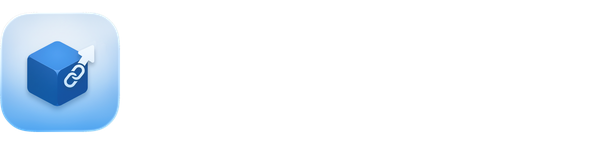
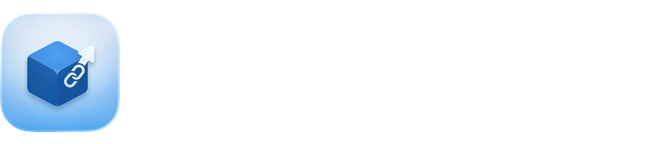
docs: separate GitBook wordmark from mobile menu

Changed region(s): [[0.031, 0.1111, 0.2173, 0.9167], [0.0621, 0.6667, 0.1242, 0.75], [0.031, 0.8889, 0.0621, 0.9167]]

diff --git a/User_docs/GITBOOK_MIGRATION.md b/User_docs/GITBOOK_MIGRATION.md
@@ -38,7 +38,7 @@ GitBook 版式由 `scripts/gitbook-design.mjs` 统一定义，参考 [Cherry Stu
 
 站点的配色、侧栏、标志和顶栏链接记录在 `gitbook/site-theme.json`，由 GitBook 站点设置管理。Git Sync 不会自动应用此文件；调整时通过 CLI 读取现有设置并合并这些设计字段，再提交完整设置，保留其他站点选项。
 
-顶栏使用 GitBook 原生 `header.logo`、紧凑搜索和本地化的 GitHub／下载入口。`gitbook/brand/` 保存 612 × 144 的透明 PNG 字标，由现有 `docs/public/logo.png` 去除透明边距后与 Arial Bold 的 AppPorts 文字组合。`light` / `dark` 指页面模式：浅色模式的深紫顶栏配白字，深色模式的浅紫顶栏配深紫字。图片使用仓库 `main` 的公开原始文件 URL；先推送图片并确认 URL 可访问，再应用站点设置。它们不依赖 Git Sync 导入未被正文引用的图片；图片 URL 的 `v` 参数取文件 SHA-256 的前 12 位，修改图片时同步更新，以刷新图片缓存。
+顶栏使用 GitBook 原生 `header.logo`、紧凑搜索和本地化的 GitHub／下载入口。`gitbook/brand/` 保存 648 × 144 的透明 PNG 字标，由现有 `docs/public/logo.png` 去除透明边距后与 Arial Bold 的 AppPorts 文字组合，右侧留白避免在窄屏上紧贴折叠菜单。`light` / `dark` 指页面模式：浅色模式的深紫顶栏配白字，深色模式的浅紫顶栏配深紫字。图片使用仓库 `main` 的公开原始文件 URL；先推送图片并确认 URL 可访问，再应用站点设置。它们不依赖 Git Sync 导入未被正文引用的图片；图片 URL 的 `v` 参数取文件 SHA-256 的前 12 位，修改图片时同步更新，以刷新图片缓存。
 
 这些配置遵循 [GitBook 图标、颜色和主题指南](https://gitbook.com/docs/documentation/zh/manage-your-site/customization/icons-colors-and-themes)。普通预览可能短暂保留旧主题；核验时使用 GitBook 原生自定义预览，确认其设置与站点 API 保存值一致，不通过发布站点来刷新预览。
 
